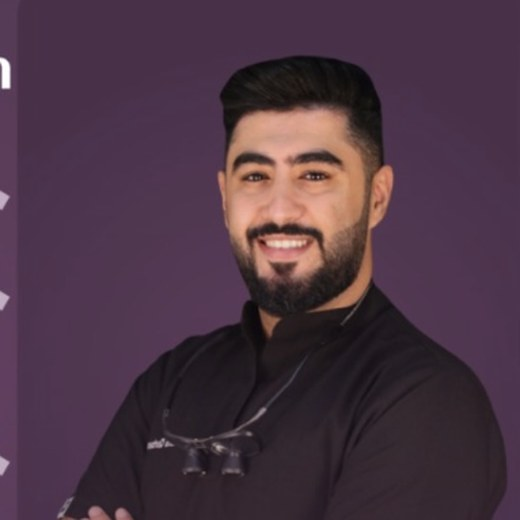
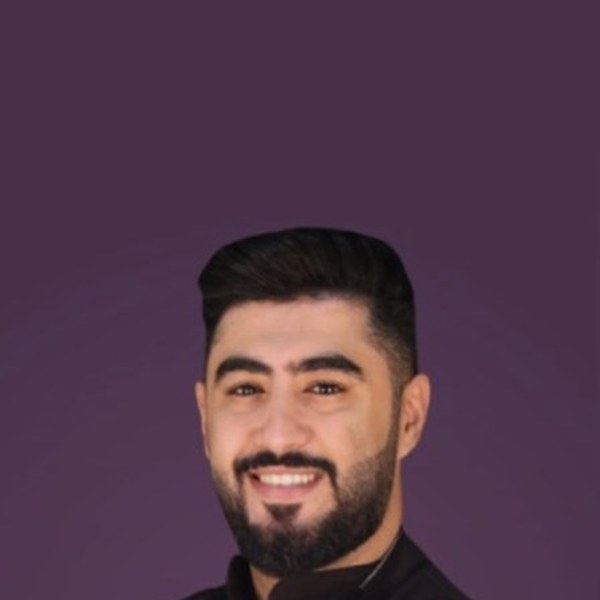
Polish: aligned doctor photos, dashboard chrome, mobile fixes, export presets
- Doctor photos re-cropped: source-card text removed from the edges,
  every head at the same hairline level, shown 1:1.
- Staff/workplace routes strip the marketing chrome (nav, cart, WhatsApp,
  hamburger); functional headings; Sign out sits top-right; login gate's
  'Create an account' button is styled instead of a raw browser button.
- Mobile: job-type picker goes 2-col instead of clipping off-screen,
  portal tables scroll inside their card, dashboard tab bars scroll,
  Sign out is static full-width on phones.
- Admin > Export Data: This month / Last month / This year / All time
  preset buttons (date-range export already existed).

diff --git a/public/css/silk.css b/public/css/silk.css
@@ -97,7 +97,7 @@ button,a,input,select,textarea{transition:color .2s ease,background-color .2s ea
 .about-page .doctor-profile{min-width:0;border-top:1px solid var(--line);}
 .about-page .doctor-card{height:100%;display:grid;grid-template-columns:115px minmax(0,1fr);gap:22px;padding:26px 0;background:transparent;border:0;border-radius:0;box-shadow:none;}
 .about-page .doctor-card:hover{transform:translateY(-2px);box-shadow:none;}
-.about-page .doc-photo{width:115px;height:150px;border-radius:3px;}
+.about-page .doc-photo{width:115px;height:115px;border-radius:3px;}
 .about-page .doc-head{display:block;}
 .about-page .doc-head h3{font:500 27px/1.1 var(--font-accent);}
 .about-page .doc-ar{display:block;font-size:13px;margin-top:6px;}
@@ -145,7 +145,10 @@ button,a,input,select,textarea{transition:color .2s ease,background-color .2s ea
 .public-site .doctor-tiles{grid-template-columns:repeat(4,minmax(0,1fr));}
 .public-site .doctor-tile,.public-site .dt-photo{min-width:0;}
 .public-site .dt-photo{aspect-ratio:auto;}
-.public-site .dt-photo{width:100%;height:220px;border-radius:3px;margin-bottom:16px;}
+/* Portraits are pre-cropped square with the hairline at a fixed height, so a
+   1:1 frame keeps every head at the same level with no object-fit cropping. */
+.public-site .dt-photo{width:100%;aspect-ratio:1/1;height:auto;border-radius:3px;margin-bottom:16px;}
+.public-site .dt-photo img,.about-page .doc-photo img{object-fit:cover;object-position:center top;}
 .public-site .dt-name{font-family:var(--font-accent);font-size:25px;line-height:1.12;}
 .public-site .dt-role{font-size:12px;line-height:1.6;}
 .public-site .dt-years{background:transparent;padding:0;}
@@ -170,10 +173,21 @@ button,a,input,select,textarea{transition:color .2s ease,background-color .2s ea
 .site-footer .footer-grid>div:not(.footer-identity):not(.footer-contact){padding-top:4px;}
 .footer-bottom{font-size:10px;line-height:1.8;padding:22px 0;border-color:#55435c;}
 .footer-bottom>span:last-child{max-width:52ch;}
-.workplace .page-head{padding-bottom:20px;border-bottom:1px solid var(--line);}
-.workplace .page-head h1{font-size:30px;}
-.workplace .card,.workplace .stat-card,.workplace .table-wrap,.workplace .lane,.workplace .kcard,.workplace .review-panel{border-radius:6px;box-shadow:0 2px 8px #29163805;}
+/* Staff/workplace routes: strip the marketing chrome so the portals read as
+   an operational tool, not a page of the public site. */
+.workplace .main-nav,.workplace #cartBtn,.workplace #waFab{display:none;}
+.workplace .topbar{border-bottom:1px solid var(--line);}
+.workplace .topbar-actions{margin-left:auto;}
+.workplace .page{padding-top:8px;}
+.workplace .page-head{position:relative;padding-bottom:20px;border-bottom:1px solid var(--line);}
+.workplace .page-head h1{font-size:26px !important;font-family:var(--font-accent);font-weight:500;}
+.workplace .page-head .eyebrow-accent{color:var(--gold);}
+/* Sign-out sits quietly top-right of the header instead of floating under it. */
+.workplace .page-head [id$="LogoutBtn"]{position:absolute;top:0;right:0;margin:0 !important;}
+.workplace .card,.workplace .stat-card,.workplace .stat-tile,.workplace .table-wrap,.workplace .lane,.workplace .kcard,.workplace .review-panel{border-radius:6px;box-shadow:0 2px 8px #29163805;}
 .workplace .stat-card .n{color:var(--violet);}
+.workplace .stat-tile .val{font-size:20px;white-space:nowrap;}
+.workplace .stat-tile .lbl{white-space:nowrap;overflow:hidden;text-overflow:ellipsis;}
 .workplace input,.workplace select,.workplace textarea{border-radius:4px;}
 .workplace .dash-tab{border-radius:0;}
 .workplace .reveal{transition-duration:.3s;transition-delay:0s;transform:translateY(5px);}
@@ -204,7 +218,7 @@ body[data-page="shop"] .product-card{background:#fff;border:1px solid var(--line
   .clinic-story{gap:32px;}
   .chapter-heading h2{font-size:40px;}
   .about-page .doctor-card{grid-template-columns:85px minmax(0,1fr);gap:15px;}
-  .about-page .doc-photo{width:85px;height:115px;}
+  .about-page .doc-photo{width:96px;height:96px;}
   .footer-grid{grid-template-columns:1fr 1fr;gap:32px 50px;}
   .patient-stories{gap:35px;}
 }
@@ -236,7 +250,7 @@ body[data-page="shop"] .product-card{background:#fff;border:1px solid var(--line
   .clinic-story{padding:50px 0;}
   .clinic-facts{grid-template-columns:1fr;gap:12px;}
   .about-page .doctor-card{grid-template-columns:95px minmax(0,1fr);}
-  .about-page .doc-photo{width:95px;height:125px;}
+  .about-page .doc-photo{width:104px;height:104px;}
   .about-craft{padding:20px 0 55px;}
   .about-craft img{height:300px;aspect-ratio:4/3;}
   .visit-story{margin:56px 0;gap:32px;}
@@ -255,11 +269,22 @@ body[data-page="shop"] .product-card{background:#fff;border:1px solid var(--line
   .footer-bottom{gap:12px;}
   .public-site .section{margin-top:52px;margin-bottom:52px;}
   .public-site .section-head h2{font-size:36px;}
-  .public-site .dt-photo{height:190px;}
+  .public-site .dt-photo{height:auto;}
   .public-site .doctor-tiles{grid-template-columns:repeat(2,minmax(0,1fr));}
   .public-site .dt-name{font-size:23px;}
   .public-site .cta-banner h2{font-size:36px;}
   .contact-scene,.collection-banner{height:230px;}
   body[data-page="contact"] .grid-2{gap:38px;}
+  /* Staff routes on a phone */
+  .workplace .nav-toggle{display:none;}          /* main-nav is hidden here, so the hamburger is dead weight */
+  .workplace .page{padding-top:4px;}
+  .workplace .page-head{padding-top:6px;}
+  .workplace .page-head h1{font-size:22px !important;}
+  .workplace .page-head [id$="LogoutBtn"]{position:static;margin-top:14px !important;width:100%;}
+  .workplace .dash-tabs{overflow-x:auto;-webkit-overflow-scrolling:touch;padding-bottom:2px;}
+  .workplace .dash-tabs .dash-tab{flex:0 0 auto;white-space:nowrap;}
+  .workplace .table-wrap{-webkit-overflow-scrolling:touch;}
+  .workplace .cases-table{min-width:560px;}     /* let it scroll inside .table-wrap instead of crushing columns */
+  .workplace .board,.workplace .lab-pipeline{scroll-snap-type:x proximity;}
 }
 @media(prefers-reduced-motion:reduce){html{scroll-behavior:auto;}.reveal{transform:none;}.stories-track{scroll-behavior:auto;}}

diff --git a/public/css/style.css b/public/css/style.css
@@ -105,6 +105,7 @@ img{max-width:100%; display:block;}
 .main-nav a:hover, .main-nav a.active{color:#fff; background:var(--violet);}
 .topbar-actions{display:flex; align-items:center; gap:10px;}
 .icon-btn{position:relative; background:var(--surface-sunken); border:1px solid var(--line); width:38px; height:38px; border-radius:10px; display:flex; align-items:center; justify-content:center; color:var(--ink);}
+#cartBtn[hidden]{display:none;}
 .icon-btn:hover{border-color:var(--violet); color:var(--violet);}
 .cart-count{position:absolute; top:-6px; right:-6px; background:var(--violet); color:#fff; font-size:10px; font-weight:700; border-radius:100px; min-width:17px; height:17px; display:flex; align-items:center; justify-content:center; padding:0 4px; font-family:var(--font-mono);}
 .dash-switch{position:relative;}
@@ -558,9 +559,14 @@ img{max-width:100%; display:block;}
 .modal-head{display:flex; justify-content:space-between; align-items:flex-start; margin-bottom:16px;}
 
 /* ================= AUTH GATE (private portal login) ================= */
-.login-gate{max-width:380px; margin:40px auto; background:var(--surface); border:1px solid var(--line); border-radius:18px; box-shadow:var(--shadow); padding:32px;}
-.login-gate h1{margin-top:8px;}
-.login-gate .lede{margin-top:10px; margin-bottom:22px;}
+.login-gate{max-width:400px; margin:56px auto; background:var(--surface); border:1px solid var(--line); border-radius:4px; box-shadow:0 24px 60px -32px rgba(45,17,66,.28); padding:40px;}
+.login-gate .eyebrow-accent{color:var(--gold);}
+.login-gate h1{margin-top:10px; font-family:var(--font-accent); font-weight:500;}
+.login-gate .lede{margin-top:10px; margin-bottom:26px;}
+.login-gate .field label{font-size:12px;}
+.login-gate .btn-block{margin-top:6px;}
+.link-btn{display:block; width:100%; margin:4px auto 0; background:none; border:0; padding:10px 0; color:var(--ink-soft); font-size:12.5px; text-align:center; cursor:pointer; border-top:1px solid var(--line); transition:color .15s ease;}
+.link-btn:hover{color:var(--violet);}
 
 /* ================= WIZARD (start a case) ================= */
 .wizard{background:var(--surface); border:1px solid var(--line); border-radius:18px; box-shadow:var(--shadow); overflow:hidden;}
@@ -802,6 +808,11 @@ img{max-width:100%; display:block;}
   .grid-2, .vm-grid, .space-grid, .form-grid{grid-template-columns:1fr;}
   .grid-3, .services-grid, .product-grid, .value-row, .dept-grid, .stat-grid{grid-template-columns:1fr;}
   .doctor-tiles, .visit-grid{grid-template-columns:repeat(2,1fr);}
+  /* Job-type / option pickers carry an inline 3-col style — override it so
+     the choices don't get clipped off the right edge of a phone. */
+  .svc-pick-grid{grid-template-columns:repeat(2,1fr) !important;}
+  .wiz-steps{overflow-x:auto; -webkit-overflow-scrolling:touch;}
+  .field-grid,.field-grid.two{grid-template-columns:1fr;}
   .doctor-card{flex-direction:column;}
   .doc-photo{width:120px; flex-basis:120px;}
   .dm-top{flex-direction:column;}

diff --git a/public/js/pages/admin/export.js b/public/js/pages/admin/export.js
@@ -25,7 +25,13 @@ export function adminExport() {
         '<div class="field"><label>From</label><input type="date" id="exp-from" value="' + firstOfMonth() + '"></div>' +
         '<div class="field"><label>To</label><input type="date" id="exp-to" value="' + today() + '"></div>' +
       '</div>' +
-      '<p style="color:var(--ink-soft); font-size:12.5px; margin-top:10px;">Defaults to the current month — pick any range for a custom export.</p>' +
+      '<div class="tag-row" style="margin-top:12px; display:flex; gap:8px; flex-wrap:wrap;">' +
+        '<button class="btn btn-ghost btn-sm" data-range-preset="this-month">This month</button>' +
+        '<button class="btn btn-ghost btn-sm" data-range-preset="last-month">Last month</button>' +
+        '<button class="btn btn-ghost btn-sm" data-range-preset="this-year">This year</button>' +
+        '<button class="btn btn-ghost btn-sm" data-range-preset="all">All time</button>' +
+      '</div>' +
+      '<p style="color:var(--ink-soft); font-size:12.5px; margin-top:10px;">Defaults to the current month — pick a preset or any custom range.</p>' +
     '</div>' +
     '<div class="card reveal"><span class="eyebrow" style="margin-bottom:14px;">Download</span>' +
       '<div class="list-plain">' + EXPORTS.map(([file, label, fmt]) =>
@@ -36,7 +42,20 @@ export function adminExport() {
   );
 }
 
+function iso(d) { return d.toISOString().slice(0, 10); }
+
 export function attachExportHandlers() {
+  document.querySelectorAll('[data-range-preset]').forEach(b => b.addEventListener('click', () => {
+    const now = new Date();
+    const y = now.getFullYear(), m = now.getMonth();
+    let from, to;
+    if (b.dataset.rangePreset === 'this-month') { from = new Date(y, m, 1); to = now; }
+    else if (b.dataset.rangePreset === 'last-month') { from = new Date(y, m - 1, 1); to = new Date(y, m, 0); }
+    else if (b.dataset.rangePreset === 'this-year') { from = new Date(y, 0, 1); to = now; }
+    else { from = new Date(2000, 0, 1); to = now; }
+    document.getElementById('exp-from').value = iso(from);
+    document.getElementById('exp-to').value = iso(to);
+  }));
   document.querySelectorAll('[data-export-file]').forEach(b => b.addEventListener('click', () => {
     const from = document.getElementById('exp-from').value;
     const to = document.getElementById('exp-to').value;
